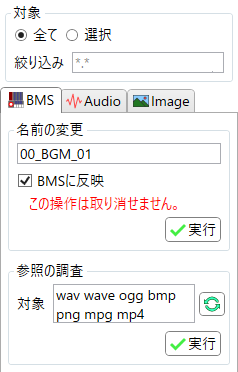
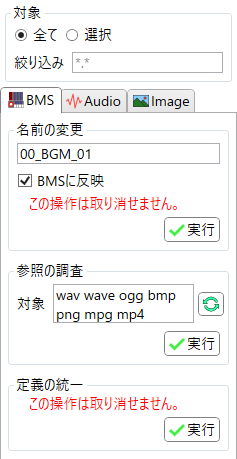
v0.7.40

diff --git a/docs/wave/info.html b/docs/wave/info.html
@@ -1,7 +1,51 @@
 <h3>基本情報</h3>
 <ul>
     <li>
-        開いている音声データの基本情報<br>
-        (サンプリング周波数、チャンネル数、サンプル長、実時間)を表示します。
+        開いている音声データの基本情報を表示します。
+        <ul>
+            <li>
+                表示内容は左から「サンプリング周波数 / チャンネル数 / サンプル長(実時間)」です。
+            </li>
+        </ul>
+    </li>
+    <li>
+        クリックすると表示を裏面に切り替えます。<br>
+        <img src="img/window_wave_tab_general_ura.png"/>
+        <ul>
+            <li>
+                <b>Peak</b>: サンプル単位での絶対値の最大値
+                <ul>
+                    <li>
+                        この値が<span class="script">0dB</span>を超えている場合、再生環境によっては音割れが発生します。
+                    </li>
+                    <li>
+                        一般に、マスタリング前の2mixと呼ばれる音源では、この値が<span class="script">0dB</span>を下回るように全体音量を下げる必要があります。
+                    </li>
+                </ul>
+            </li>
+            <li>
+                <b>RMS</b>: チャンネルごとの<a href="https://ja.wikipedia.org/wiki/%E4%BA%8C%E4%B9%97%E5%B9%B3%E5%9D%87%E5%B9%B3%E6%96%B9%E6%A0%B9" target="_blank">二乗平均平方根</a>の平均
+                <ul>
+                    <li>
+                        この音声の平均音量を示します。
+                    </li>
+                    <li>
+                        機械的に平均を取るため、前後の無音が多い音源ではこの値は小さめになります。<br>
+                        「聴覚的なうるささ」の指標には後述のLUFSを参照してください。
+                    </li>
+                </ul>
+            </li>
+            <li>
+                <b>LUFS</b>: <a href="https://en.wikipedia.org/wiki/LUFS">Loudness units relative to full scale</a>
+                <ul>
+                    <li>
+                        RMSを人間の聴覚特性に合わせて加工した値で、概ね「聴覚的なうるささ」の指標になります。
+                    </li>
+                    <li>
+                        目指すべき値を一つ決めておくと楽曲の音量感を統一できます。具体的な値は条件次第で変わります。
+                    </li>
+                </ul>
+            </li>
+        </ul>
     </li>
 </ul>

diff --git a/docs/browse_bms.html b/docs/browse_bms.html
@@ -18,14 +18,15 @@
                 <h2>説明</h2>
                 要素をクリックすると説明が表示されます。
                 <div class="image-map" src="img/browse_bms.png" maps="
-                      0,  0,238, 87, browse/target.html;
+                      0,  0,237, 87, browse/target.html;
                      62, 89, 65, 23, browse_audio.html, link;
                     127, 89, 68, 23, browse_image.html, link;
-                      9,141,220, 25, browse/rename_name.html;
-                      9,168,220, 25, browse/rename_bms.html;
-                    165,217, 56, 25, browse/rename_execute.html;
+                      9,141,219, 25, browse/rename_name.html;
+                      9,168,219, 25, browse/rename_bms.html;
+                    164,217, 56, 25, browse/rename_execute.html;
                       9,282,220, 43, browse/usedFile_target.html;
-                    165,331, 56, 25, browse/usedFile_execute.html;
+                    164,331, 56, 25, browse/usedFile_execute.html;
+                    164,417, 56, 25, browse/defUnify_execute.html;
                     ">
                 </div>
             </div>
@@ -53,7 +54,7 @@
                                 「参照」とは、そのBMS内の<span class="script">#WAVxx #BMPxx #STAGEFILE #BANNER #BACKBMP #PREVIEW</span>のいずれかに記述されているファイル名のことです。
                                 <ul>
                                     <li>
-                                        特殊形式の定義(<span class="script">#EXWAVxx</span>)からの参照はチェックしないためご注意ください。
+                                        特殊形式の定義(<span class="script">#EXWAVxx</span>など)からの参照はチェックしないためご注意ください。
                                     </li>
                                 </ul>
                             </li>

diff --git a/docs/history.html b/docs/history.html
@@ -10,6 +10,25 @@
         <div class="content">
             <ul>
                 <li>
+                    <details id="0_7_40">
+                        <summary class="a-like">Version 0.7.40 (2025/10/24)</summary>
+                        <ul>
+                            <li>
+                                機能追加
+                                <ul>
+                                    <li>
+                                        <a href="browse_bms.html">Browseモード/BMS</a>に「定義の統一」を追加しました。
+                                    </li>
+                                    <li>
+                                        <a href="wave.html">Waveモード</a>において、開いている音声データのLUFSを確認できるようにしました。
+                                    </li>
+                                </ul>
+                            </li>
+                        </ul>
+                        <br>
+                    </details>
+                </li>
+                <li>
                     <details id="0_7_39">
                         <summary class="a-like">Version 0.7.39 (2025/10/11)</summary>
                         <ul>

diff --git a/docs/browse/defUnify_execute.html b/docs/browse/defUnify_execute.html
@@ -1,0 +1,24 @@
+<h3><img src="img/icons/Check_Green.png" class="icon"/>定義の統一の実行</h3>
+<ul>
+    <li>
+        フォルダ内のBMSの定義リストを調査し、<b>全てのBMSで内容を統一</b>します。
+        <ul>
+            <li>
+                <span class="script">#LNOBJ</span>に指定された定義は変更されません。<br>
+                <span class="script">#LNOBJ</span>を揃えたい場合は事前に手動で統一してください。
+            </li>
+            <li>
+                空の定義を参照しているノート(無音ノート)は全て同じ番号になります。
+            </li>
+            <li>
+                統一後の定義リストは強制的に<b>名前順で並び替えられます</b>。
+            </li>
+        </ul>
+    </li>
+    <li>
+        譜面を複数人で独立に作成した後に、定義番号を統一する必要がある場合などに利用できます。
+    </li>
+    <li>
+        この機能の実行前には<b>必ず全てのBMSのバックアップを取ってください</b>。
+    </li>
+</ul>

diff --git a/docs/index.html b/docs/index.html
@@ -11,7 +11,7 @@
             <div class="stack">
                 <a href="https://github.com/Kuroki-Narumi/BmsMaker3-Manual/releases" target="_blank">
                     <img src="img/logo.png" style="max-width: 100%;"/><br>
-                    Version 0.7.39<br>
+                    Version 0.7.40<br>
                 </a>
                 オールインワン型BMS制作補助ツール<br>
             </div>
